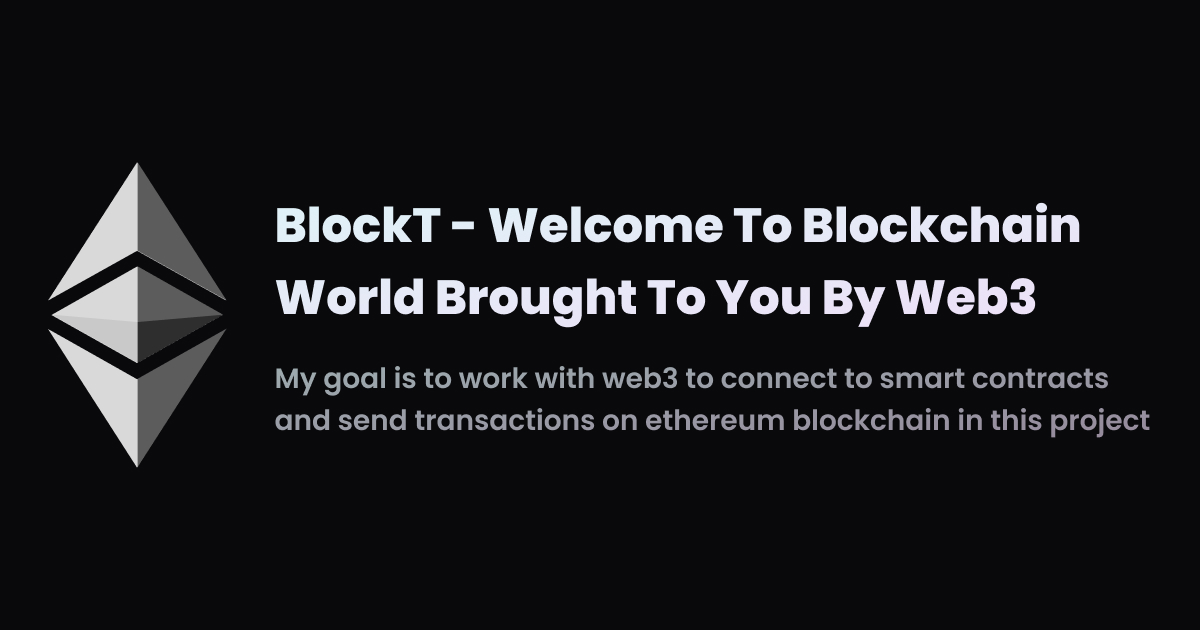
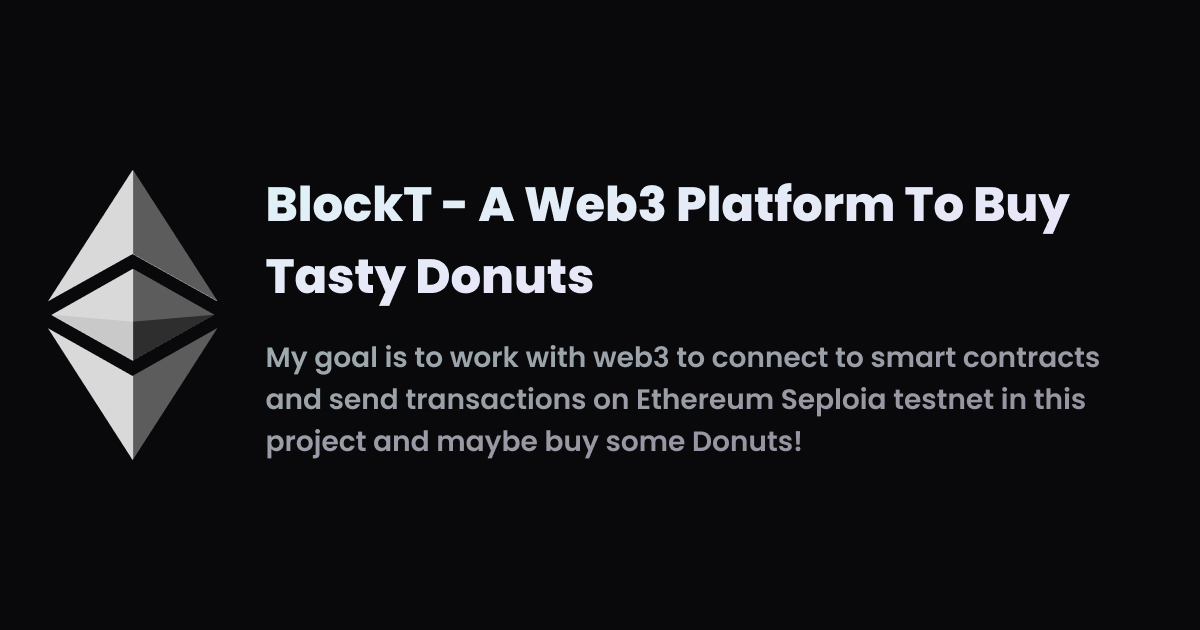
Added contract data and Added buy donut form

Changed region(s): [[0.2158, 0.2714, 0.9558, 0.7238], [0.0925, 0.2714, 0.185, 0.754]]

diff --git a/src/components/utils/DonutForm.tsx b/src/components/utils/DonutForm.tsx
@@ -19,54 +19,62 @@ import {
 import { Input } from '@/components/ui/input'
 import { useStore } from '@/lib/store'
 import { zodResolver } from '@hookform/resolvers/zod'
+import { Icon } from '@iconify-icon/react'
+import { useState } from 'react'
 import { useForm } from 'react-hook-form'
 import { z } from 'zod'
 
 const formSchema = z.object({
-   contractAddress: z.string().refine((value) => /^0x[a-fA-F0-9]{40}$/i.test(value), {
-      message: 'Invalid contract contractAddress format.',
-   }),
+   amount: z.number().int(),
 })
 
-export function ContractForm() {
-   const { contractAddress, setContractAddress } = useStore()
+export function DonutForm() {
+   const { metamask } = useStore()
 
    const form = useForm<z.infer<typeof formSchema>>({
       resolver: zodResolver(formSchema),
       defaultValues: {
-         contractAddress: '',
+         amount: undefined,
       },
    })
 
+   const [totalCost, setTotalCost] = useState<number>(0)
+   const costPerDonut: number = 0.0005
+
    function onSubmit(values: z.infer<typeof formSchema>) {
-      setContractAddress(values.contractAddress)
+      return values
    }
+
+   form.watch((value) => {
+      const amount = value.amount || 0
+      const cost = amount * costPerDonut
+      setTotalCost(cost)
+   })
 
    return (
       <Card className="my-auto w-full max-w-96">
          <CardHeader>
-            <CardTitle>Save contract contractAddress</CardTitle>
-            <CardDescription>
-               Start working with a smart contract on ethereum blockchain network.
-            </CardDescription>
+            <CardTitle>
+               <Icon icon="solar:donut-line-duotone" className="mr-1 align-middle text-2xl" />
+               Donut Vending Machine
+            </CardTitle>
+            <CardDescription>Remaining donuts in the machine</CardDescription>
          </CardHeader>
-         <CardContent>
+         <CardContent className="-mt-2">
             <Form {...form}>
                <form onSubmit={form.handleSubmit(onSubmit)} className="w-full">
                   <FormField
                      control={form.control}
-                     name="contractAddress"
+                     name="amount"
                      render={({ field }) => (
                         <FormItem>
-                           <FormLabel>Address</FormLabel>
+                           <FormLabel>Amount</FormLabel>
                            <FormControl>
-                              <Input placeholder="Contract contractAddress" {...field} />
+                              <Input placeholder="Number of Donuts" {...field} />
                            </FormControl>
                            <FormDescription>
-                              Current address:{' '}
-                              {contractAddress && contractAddress !== ''
-                                 ? contractAddress
-                                 : 'not set'}
+                              1 Donut = {costPerDonut} ETH <br />
+                              Total cost: {totalCost.toFixed(4)} ETH
                            </FormDescription>
                            <FormMessage />
                         </FormItem>
@@ -75,9 +83,13 @@ export function ContractForm() {
                </form>
             </Form>
          </CardContent>
-         <CardFooter className="flex justify-between pt-2">
-            <Button onClick={form.handleSubmit(onSubmit)} type="submit">
-               Confirm
+         <CardFooter className="flex justify-between">
+            <Button
+               onClick={form.handleSubmit(onSubmit)}
+               type="submit"
+               disabled={!metamask || totalCost === 0}
+            >
+               Purchase Now
             </Button>
          </CardFooter>
       </Card>

diff --git a/src/lib/contract/data.ts b/src/lib/contract/data.ts
@@ -1,0 +1,80 @@
+export const VendingmachineAddress = '0xbaA11FAF04e9e8A7FeCe9B574D8eFF1518386A68'
+
+export const vendingMachineABI = [
+   {
+      inputs: [],
+      stateMutability: 'nonpayable',
+      type: 'constructor',
+   },
+   {
+      inputs: [
+         {
+            internalType: 'address',
+            name: '',
+            type: 'address',
+         },
+      ],
+      name: 'donutBalances',
+      outputs: [
+         {
+            internalType: 'uint256',
+            name: '',
+            type: 'uint256',
+         },
+      ],
+      stateMutability: 'view',
+      type: 'function',
+   },
+   {
+      inputs: [],
+      name: 'getVendingMachineBalance',
+      outputs: [
+         {
+            internalType: 'uint256',
+            name: '',
+            type: 'uint256',
+         },
+      ],
+      stateMutability: 'view',
+      type: 'function',
+   },
+   {
+      inputs: [],
+      name: 'owner',
+      outputs: [
+         {
+            internalType: 'address',
+            name: '',
+            type: 'address',
+         },
+      ],
+      stateMutability: 'view',
+      type: 'function',
+   },
+   {
+      inputs: [
+         {
+            internalType: 'uint256',
+            name: 'amount',
+            type: 'uint256',
+         },
+      ],
+      name: 'purchase',
+      outputs: [],
+      stateMutability: 'payable',
+      type: 'function',
+   },
+   {
+      inputs: [
+         {
+            internalType: 'uint256',
+            name: 'amount',
+            type: 'uint256',
+         },
+      ],
+      name: 'restock',
+      outputs: [],
+      stateMutability: 'nonpayable',
+      type: 'function',
+   },
+]

diff --git a/src/components/utils/CustomHead.tsx b/src/components/utils/CustomHead.tsx
@@ -15,20 +15,13 @@ export default function CustomHead(props: CustomHeadProps) {
   const router = useRouter()
 
   const seo = {
-     title: 'BlockT - Welcome To Blockchain World Brought To You By Web3',
+     title: 'BlockT - A Web3 Platform To Buy Tasty Donuts',
      description:
-        'My goal is to work with web3 to connect to smart contracts and send transactions on ethereum blockchain in this project.',
+        'My goal is to work with web3 to connect to smart contracts and send transactions on Ethereum Seploia testnet in this project and maybe buy some Donuts!',
      url: router.asPath,
      image: preview.src,
      twitterCardType: 'summary',
-     keywords: [
-        'Sina',
-        'Kheiri',
-        'BlockT',
-        'Web3',
-        'Blockchain',
-        'Ethereum',
-     ],
+     keywords: ['Sina', 'Kheiri', 'BlockT', 'Web3', 'Blockchain', 'Ethereum'],
      ...props,
   } satisfies CustomHeadProps
 

diff --git a/src/lib/store.ts b/src/lib/store.ts
@@ -2,10 +2,8 @@ import { create } from 'zustand'
 import { persist } from 'zustand/middleware'
 
 interface StoreState {
-   contractAddress: string
    walletAddress: string
    metamask: boolean
-   setContractAddress: (contractAddress: string) => void
    setWalletAddress: (walletAddress: string) => void
    setMetamask: (metamask: boolean) => void
 }
@@ -13,10 +11,8 @@ interface StoreState {
 export const useStore = create(
    persist<StoreState>(
       (set) => ({
-         contractAddress: '',
          walletAddress: '',
          metamask: false,
-         setContractAddress: (contractAddress) => set({ contractAddress: contractAddress }),
          setWalletAddress: (walletAddress) => set({ walletAddress: walletAddress }),
          setMetamask: (metamask) => set({ metamask: metamask }),
       }),

diff --git a/src/lib/contract/contract.ts b/src/lib/contract/contract.ts
@@ -1,0 +1,10 @@
+import { VendingmachineAddress, vendingMachineABI } from '@/lib/contract/data'
+import Web3 from 'web3'
+
+const provider = new Web3.providers.HttpProvider(
+   'https://sepolia.infura.io/v3/212d1693254640c2a54709133b3dc68a'
+)
+
+const web3 = new Web3(provider)
+
+export const contract = new web3.eth.Contract(vendingMachineABI, VendingmachineAddress)

diff --git a/src/pages/index.tsx b/src/pages/index.tsx
@@ -1,10 +1,10 @@
 import MainLayout from '@/components/layout/MainLayout'
-import { ContractForm } from '@/components/utils/ContractForm'
+import { DonutForm } from '@/components/utils/DonutForm'
 
 export default function Home() {
    return (
       <MainLayout>
-         <ContractForm />
+         <DonutForm />
       </MainLayout>
    )
 }
